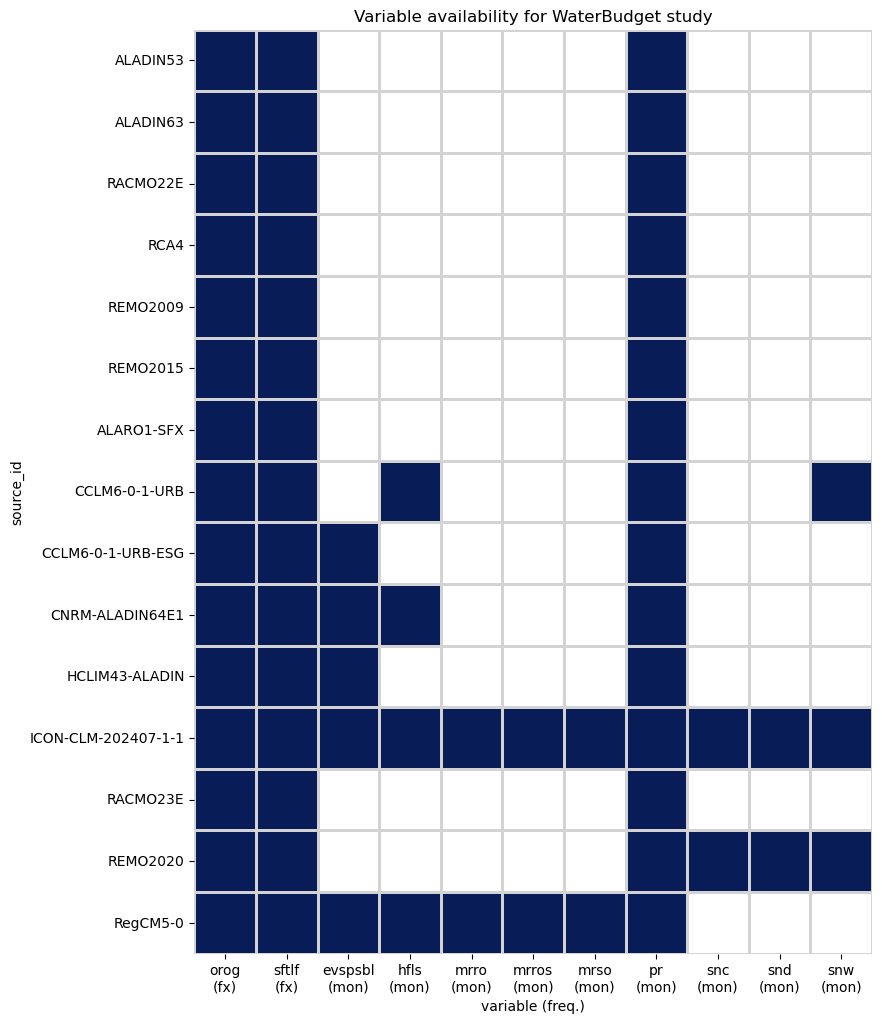
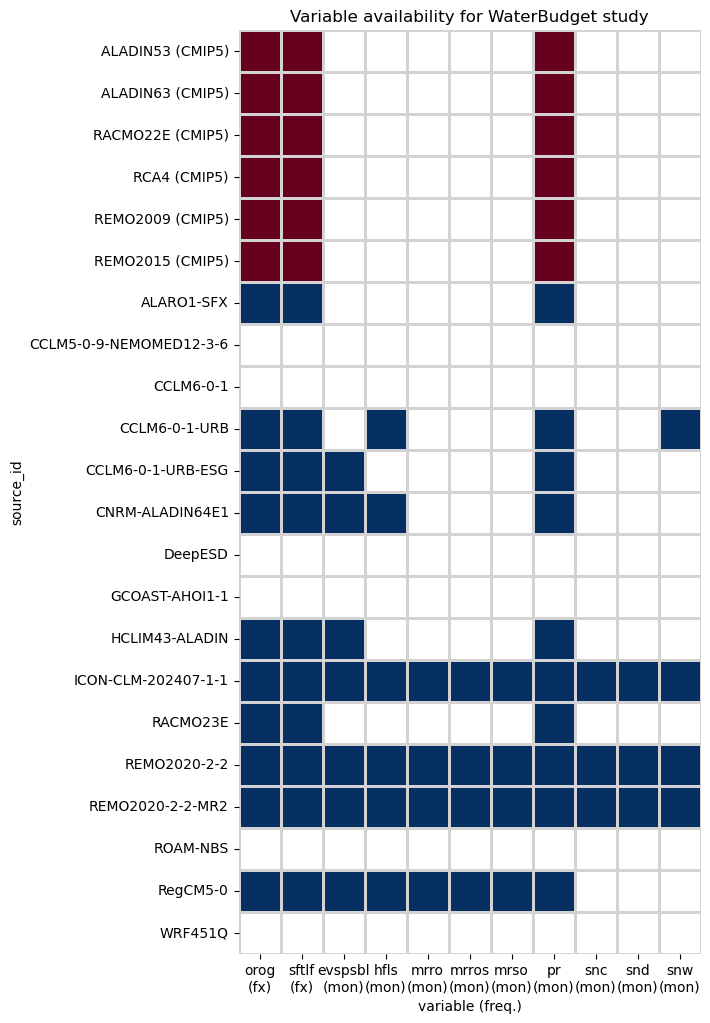
Add completed runs to variable availability (as empty)
See #85

Also higlight the CMIP5-driven simulations (label and color)

diff --git a/code/variable_availability.py b/code/variable_availability.py
@@ -15,7 +15,7 @@ def get_studies(dreq):
     return sorted(list(studies))
 
 
-def plot_availability(study, dreq, catalog, outname="availability.png"):
+def plot_availability(study, dreq, catalog, plans, outname="availability.png"):
     dreq_study = dreq.query("priority.str.contains(@study)")
     dreq_study = dreq_study[["out_name", "frequency"]].rename(
         columns={"out_name": "variable_id"}
@@ -35,13 +35,20 @@ def plot_availability(study, dreq, catalog, outname="availability.png"):
         fill_value=0,
     )
     matrix = matrix.replace(0, np.nan)
+    plans_empty = pd.DataFrame(columns=matrix.columns, index=plans.index)
+    plans_empty[:] = np.nan 
+    matrix = matrix.combine_first(plans_empty).astype(float)
+    cmip5_mask = matrix.index.get_level_values(0) == "CMIP5"
+    matrix.loc[cmip5_mask, :] *= 0.5 # change value (i.e color) for CMIP5-driven sims.
     ic(matrix)
+    #
     # Plot as heatmap (make sure to show all ticks and labels)
+    #
     plt.figure(figsize=(14, 12))
     plt.title(f"Variable availability for {study} study")
     ax = sns.heatmap(
         matrix,
-        cmap="YlGnBu_r",
+        cmap="RdBu",
         annot=False,
         cbar=False,
         linewidths=1,
@@ -57,7 +64,7 @@ def plot_availability(study, dreq, catalog, outname="availability.png"):
     ax.set_xticklabels(xticklabels)
     ax.set_xlabel("variable (freq.)")
     ax.set_yticks(0.5 + np.arange(len(matrix.index)))
-    yticklabels = [f"{s}" for e, s in matrix.index]
+    yticklabels = [f"{s}" if e=="CMIP6" else f"{s} ({e})" for e, s in matrix.index]
     ax.set_yticklabels(yticklabels, rotation=0)
     ax.set_ylabel("source_id")
     ax.set_aspect("equal")
@@ -66,16 +73,23 @@ def plot_availability(study, dreq, catalog, outname="availability.png"):
 
 
 if __name__ == "__main__":
-    url = "dreq_EUR_joint_evaluation.csv"
-    dreq = pd.read_csv(url)
+    url_dreq = "dreq_EUR_joint_evaluation.csv"
+    url_plans = "https://raw.githubusercontent.com/WCRP-CORDEX/simulation-status/refs/heads/main/CMIP6_downscaling_plans.csv"
+    dreq = pd.read_csv(url_dreq)
+    plans = (pd.read_csv(url_plans)
+      .query("domain == 'EUR-12' & experiment == 'evaluation' & status in ['completed',]")
+      .assign(mip_era="CMIP6")
+      .rename(columns={"rcm_name": "source_id"})
+      .loc[:,["mip_era", "source_id"]]
+      .set_index(["mip_era", "source_id"])
+    )
     catalog = pd.read_csv(
         "catalog.csv", usecols=["variable_id", "frequency", "source_id", "mip_era"]
     )
     md_lines = ["# Variable Availability Plots\n"]
     for study in get_studies(dreq):
-        plot_availability(study, dreq, catalog)
         plot_path = f"plots/variable_availability__{study}.png"
-        plot_availability(study, dreq, catalog, outname=plot_path)
+        plot_availability(study, dreq, catalog, plans, outname=plot_path)
         md_lines.append(f"## {study}")
         md_lines.append(f"![{study}]({plot_path})\n")
 
